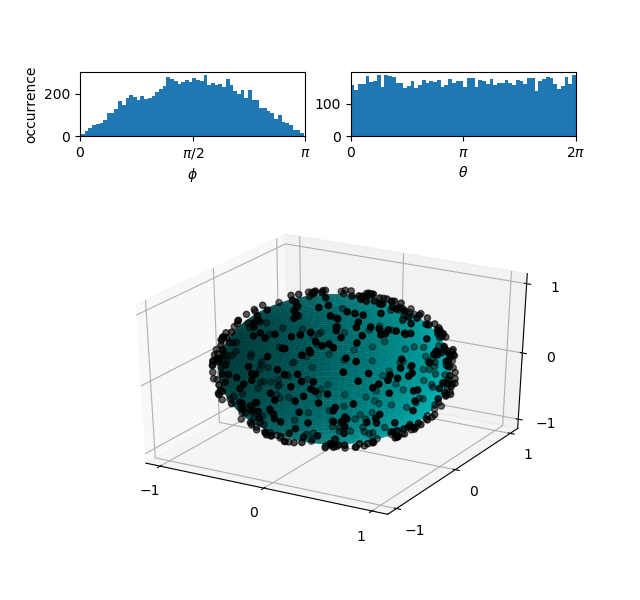
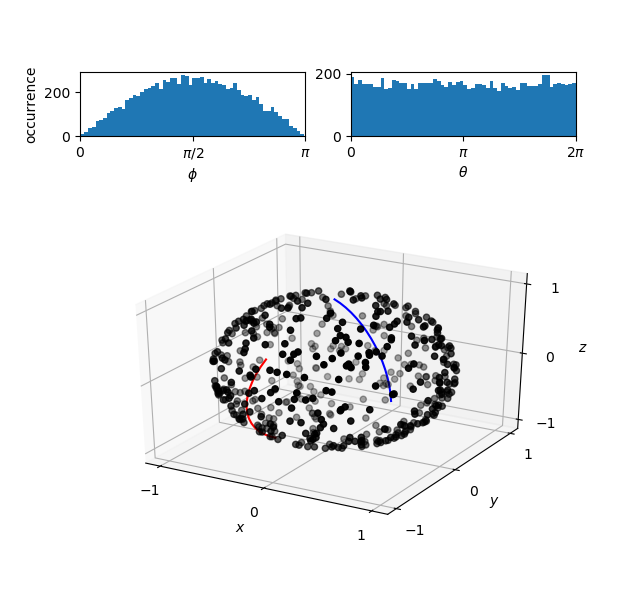
new version of visualize_3d_angles
the new version shows that orientation of a line is change too

diff --git a/visualize_3d_angles.py b/visualize_3d_angles.py
@@ -22,11 +22,22 @@ for i in range(data_number):
     new_y[i] = np.sin(new_theta[i])*np.sin(new_phi[i])
     new_z[i] = np.cos(new_phi[i])
 
-surface_phi, surface_theta = np.mgrid[0.0:np.pi:100j, 0.0:2.0*np.pi:100j]
-surface_radius = 0.95
-surface_x = surface_radius*np.cos(surface_theta)*np.sin(surface_phi)
-surface_y = surface_radius*np.sin(surface_theta)*np.sin(surface_phi)
-surface_z = surface_radius*np.cos(surface_phi)
+phi_line=np.arange(0,np.pi/2,0.1)
+theta_line=5.7*np.ones(len(phi_line))
+new_phi_line,new_theta_line = random_3d_rotation.random_3d_rotation(phi_line,theta_line)
+x_line = np.cos(theta_line)*np.sin(phi_line)
+y_line = np.sin(theta_line)*np.sin(phi_line)
+z_line = np.cos(phi_line)
+new_x_line = np.cos(new_theta_line)*np.sin(new_phi_line)
+new_y_line = np.sin(new_theta_line)*np.sin(new_phi_line)
+new_z_line = np.cos(new_phi_line)
+
+
+#surface_phi, surface_theta = np.mgrid[0.0:np.pi:100j, 0.0:2.0*np.pi:100j]
+#surface_radius = 0.9
+#surface_x = surface_radius*np.cos(surface_theta)*np.sin(surface_phi)
+#surface_y = surface_radius*np.sin(surface_theta)*np.sin(surface_phi)
+#surface_z = surface_radius*np.cos(surface_phi)
 
 bins = 60
 sample_every = 20
@@ -47,8 +58,13 @@ ax2.set_xticklabels([r'$0$', r'$\pi$', r'$2\pi$'])
 ax2.hist(new_theta,bins)
 ax3 = fig.add_subplot(spec[2:], projection='3d')
 ax3.set_xticks([-1,0,1])
+ax3.set_xlabel(r'$x$')
 ax3.set_yticks([-1,0,1])
+ax3.set_ylabel(r'$y$')
 ax3.set_zticks([-1,0,1])
-ax3.plot_surface(surface_x,surface_y,surface_z,  rstride=1, cstride=1, color='c', alpha=1.0, linewidth=0)
+ax3.set_zlabel(r'$z$')
+#ax3.plot_surface(surface_x,surface_y,surface_z,  rstride=1, cstride=1, color='c', alpha=1.0, linewidth=0)
 ax3.scatter(new_x[1::sample_every],new_y[1::sample_every],new_z[1::sample_every],color="k",s=20)
+ax3.plot3D(x_line,y_line,z_line,'blue')
+ax3.plot3D(new_x_line,new_y_line,new_z_line,'red')
 plt.savefig("RandomPhiTheta01.png")
